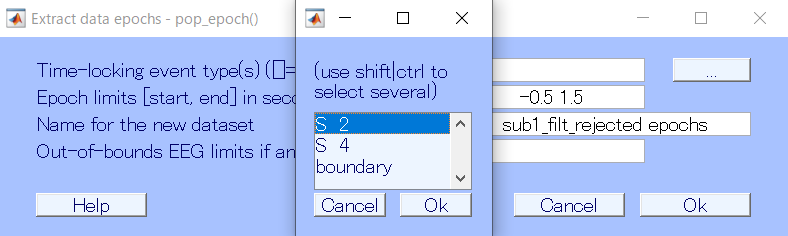
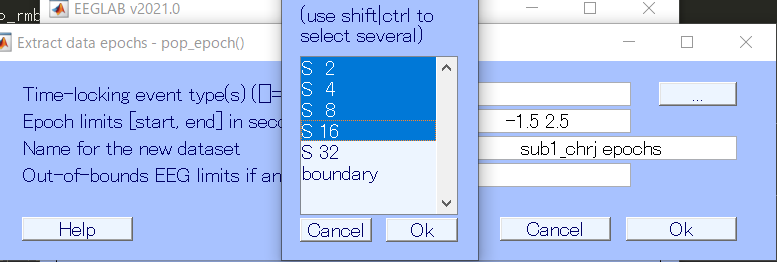
writting preprocessing

diff --git a/Analysis/eeglab/prepro1.html b/Analysis/eeglab/prepro1.html
@@ -364,9 +364,14 @@ h4:before {
 <ul>
 <li><a href="#%E3%82%A8%E3%83%9D%E3%83%83%E3%82%AD%E3%83%B3%E3%82%B0%E3%81%A8%E3%81%AF">&#x30A8;&#x30DD;&#x30C3;&#x30AD;&#x30F3;&#x30B0;&#x3068;&#x306F;</a></li>
 <li><a href="#%E3%82%A8%E3%83%9D%E3%83%83%E3%82%AF%E3%81%AE%E5%88%87%E3%82%8A%E5%87%BA%E3%81%97">&#x30A8;&#x30DD;&#x30C3;&#x30AF;&#x306E;&#x5207;&#x308A;&#x51FA;&#x3057;</a></li>
+<li><a href="#%E3%83%99%E3%83%BC%E3%82%B9%E3%83%A9%E3%82%A4%E3%83%B3%E8%A3%9C%E6%AD%A3">&#x30D9;&#x30FC;&#x30B9;&#x30E9;&#x30A4;&#x30F3;&#x88DC;&#x6B63;</a></li>
 </ul>
 </li>
-<li><a href="#%E3%82%A8%E3%83%9D%E3%83%83%E3%82%AF%E3%81%AE%E9%99%A4%E5%A4%96">&#x30A8;&#x30DD;&#x30C3;&#x30AF;&#x306E;&#x9664;&#x5916;</a></li>
+<li><a href="#%E3%82%A8%E3%83%9D%E3%83%83%E3%82%AF%E3%81%AE%E9%99%A4%E5%A4%96">&#x30A8;&#x30DD;&#x30C3;&#x30AF;&#x306E;&#x9664;&#x5916;</a>
+<ul>
+<li><a href="#%E8%87%AA%E5%8B%95%E3%81%A7%E9%99%A4%E5%A4%96">&#x81EA;&#x52D5;&#x3067;&#x9664;&#x5916;</a></li>
+</ul>
+</li>
 <li><a href="#ica">ICA</a></li>
 <li><a href="#csd-%E3%83%80%E3%82%A4%E3%83%9D%E3%83%BC%E3%83%AB%E3%81%AE%E6%8E%A8%E5%AE%9A">CSD, &#x30C0;&#x30A4;&#x30DD;&#x30FC;&#x30EB;&#x306E;&#x63A8;&#x5B9A;</a></li>
 </ul>
@@ -450,28 +455,69 @@ h4:before {
 </blockquote>
 <p>&#x3092;&#x9078;&#x629E;&#x3057;&#x307E;&#x3059;&#xFF0E;</p>
 <center><img src="../figures/ch-reject.png" width="80%"></center>
-<p><code>Reject channel</code>&#x306E;&#x30A6;&#x30A3;&#x30F3;&#x30C9;&#x30A6;&#x304C;&#x8868;&#x793A;&#x3055;&#x308C;&#x305F;&#x3089;&#xFF0C;&#x5BFE;&#x8C61;&#x3068;&#x3059;&#x308B;&#x96FB;&#x6975;&#x3068;&#x9664;&#x5916;&#x3059;&#x308B;&#x57FA;&#x6E96;&#x3092;&#x9078;&#x629E;&#x3057;&#x307E;&#x3059;&#xFF0E;&#x773C;&#x96FB;&#x3084;&#x7B4B;&#x96FB;&#x306F;&#x8133;&#x6CE2;&#x306B;&#x6BD4;&#x3079;&#x305F;&#x3089;&#x7570;&#x8CEA;&#x306A;&#x4FE1;&#x53F7;&#x3067;&#x3042;&#x308B;&#x3053;&#x3068;&#x306F;&#x9593;&#x9055;&#x3044;&#x306A;&#x3044;&#x306E;&#x3067;&#x5BFE;&#x8C61;&#x304B;&#x3089;&#x5916;&#x3057;&#x305F;&#x4E0A;&#x3067;&#x95A2;&#x6570;&#x306B;&#x304B;&#x3051;&#x307E;&#x3059;&#xFF0E;&#x305D;&#x306E;&#x305F;&#x3081;&#xFF0C;&#x305F;&#x3068;&#x3048;&#x3070;&#x4ECA;&#x56DE;&#x7B46;&#x8005;&#x304C;&#x7528;&#x3044;&#x305F;&#x30C7;&#x30FC;&#x30BF;&#x3060;&#x3068;65ch&#x4E2D;&#x6700;&#x5F8C;&#x306E;2ch&#x306F;&#x773C;&#x96FB;&#x3060;&#x3063;&#x305F;&#x306E;&#x3067;&#x524A;&#x3063;&#x3066;&#xFF0C;<code>1:63</code>&#xFF0C;&#x3064;&#x307E;&#x308A;1&#x304B;&#x3089;63&#x306E;&#x96FB;&#x6975;&#x306E;&#x307F;&#x3092;&#x5BFE;&#x8C61;&#x306B;&#x3057;&#x307E;&#x3057;&#x305F;&#xFF0E;</p>
+<p><code>Reject channel</code>&#x306E;&#x30A6;&#x30A3;&#x30F3;&#x30C9;&#x30A6;&#x304C;&#x8868;&#x793A;&#x3055;&#x308C;&#x305F;&#x3089;&#xFF0C;&#x5BFE;&#x8C61;&#x3068;&#x3059;&#x308B;&#x96FB;&#x6975;&#x3068;&#x9664;&#x5916;&#x3059;&#x308B;&#x57FA;&#x6E96;&#x3092;&#x9078;&#x629E;&#x3057;&#x307E;&#x3059;&#xFF0E;&#x773C;&#x96FB;&#x3084;&#x7B4B;&#x96FB;&#x306F;&#x8133;&#x6CE2;&#x306B;&#x6BD4;&#x3079;&#x305F;&#x3089;&#x7570;&#x8CEA;&#x306A;&#x4FE1;&#x53F7;&#x3067;&#x3042;&#x308B;&#x3053;&#x3068;&#x306F;&#x9593;&#x9055;&#x3044;&#x306A;&#x3044;&#x306E;&#x3067;&#x5BFE;&#x8C61;&#x304B;&#x3089;&#x5916;&#x3057;&#x305F;&#x4E0A;&#x3067;&#x95A2;&#x6570;&#x306B;&#x304B;&#x3051;&#x307E;&#x3059;&#xFF0E;&#x305D;&#x306E;&#x305F;&#x3081;&#xFF0C;&#x305F;&#x3068;&#x3048;&#x3070;&#x4ECA;&#x56DE;&#x7B46;&#x8005;&#x304C;&#x7528;&#x3044;&#x305F;&#x30C7;&#x30FC;&#x30BF;&#x3060;&#x3068;66ch&#x4E2D;&#x6700;&#x5F8C;&#x306E;2ch&#x306F;&#x773C;&#x96FB;&#x3060;&#x3063;&#x305F;&#x308A;&#x3068;&#x8133;&#x6CE2;&#x3067;&#x306F;&#x306A;&#x3044;&#x306E;&#x3067;&#x524A;&#x3063;&#x3066;&#xFF0C;<code>1:63</code>&#xFF0C;&#x3064;&#x307E;&#x308A;1&#x304B;&#x3089;63&#x306E;&#x96FB;&#x6975;&#x306E;&#x307F;&#x3092;&#x5BFE;&#x8C61;&#x306B;&#x3057;&#x307E;&#x3057;&#x305F;&#xFF0E;</p>
 <p>&#x6B21;&#x306E;&#x9664;&#x5916;&#x57FA;&#x6E96;&#x3067;&#x3059;&#x304C;&#xFF0C;&#x3053;&#x308C;&#x306F;&#x8AAC;&#x660E;&#x306B;&#x3084;&#x3084;&#x7D71;&#x8A08;?&#x306E;&#x77E5;&#x8B58;&#x304C;&#x5FC5;&#x8981;&#x306B;&#x306A;&#x308B;&#x306E;&#x3067;&#x7701;&#x304D;&#x307E;&#x3059;&#xFF0E;&#x3068;&#x308A;&#x3042;&#x3048;&#x305A;Kurtosis&#x3067;&#x826F;&#x3044;&#x3068;&#x601D;&#x3044;&#x307E;&#x3059;&#xFF0E;&#x305D;&#x306E;&#x4E0B;&#x306E;&#x6570;&#x5B57;&#x3082;&#x3044;&#x3058;&#x3089;&#x306A;&#x304F;&#x3066;&#x3044;&#x3044;&#xFF0E;&#x7D50;&#x679C;&#xFF0C;&#x96FB;&#x6975;&#x306E;&#x6570;&#x5B57;&#x3060;&#x3051;&#x8ABF;&#x6574;&#x3059;&#x308C;&#x3070;&#x5927;&#x4E08;&#x592B;&#x3067;&#x3059;&#xFF0E;<code>Ok</code>&#x3092;&#x62BC;&#x3057;&#x3066;&#x95A2;&#x6570;&#x3092;&#x8D70;&#x3089;&#x305B;&#x307E;&#x3059;&#xFF0E;</p>
 <center><img src="../figures/ch-reject2.png" width="80%"></center>
 <p>&#x3059;&#x308B;&#x3068;&#x6570;&#x79D2;&#x8A08;&#x7B97;&#x304C;&#x8D70;&#x3063;&#x3066;&#xFF0C;&#x305D;&#x306E;&#x3042;&#x3068;<code>Scroll componet activities</code>&#x306E;&#x30A6;&#x30A3;&#x30F3;&#x30C9;&#x30A6;&#x304C;&#x958B;&#x304D;&#xFF0C;&#x30CE;&#x30A4;&#x30BA;&#x3063;&#x307D;&#x3044;&#x3084;&#x3070;&#x3044;&#x30C1;&#x30E3;&#x30F3;&#x30CD;&#x30EB;&#x3092;&#x8D64;&#x304F;&#x8868;&#x793A;&#x3057;&#x3066;&#x304F;&#x308C;&#x305F;&#x8133;&#x6CE2;&#x30C7;&#x30FC;&#x30BF;&#x306E;&#x4E00;&#x89A7;&#x304C;...</p>
-<center><img src="../figures/ch-reject3.png" width="80%"></center>
-<p>&#x4F55;&#x6545;&#x304B;&#x4E0A;&#x624B;&#x304F;&#x8868;&#x793A;&#x3055;&#x308C;&#x3066;&#x306D;&#x3048;...&#x306A;&#x3093;&#x3060;&#x308D;&#x3046;&#xFF0E;&#x307E;&#x3042;&#x3044;&#x3044;&#x3084;&#xFF0E;<br>
-&#x3061;&#x3083;&#x3093;&#x3068;&#x898B;&#x308C;&#x3066;&#x3044;&#x305F;&#x3089;&#xFF0C;&#x8D64;&#x304F;&#x306A;&#x3063;&#x3066;&#x308B;&#x306E;&#x304C;&#x305F;&#x3057;&#x304B;&#x306B;&#x3084;&#x3070;&#x305D;&#x3046;&#x306A;&#x96FB;&#x6975;&#x304B;&#x3069;&#x3046;&#x304B;&#x78BA;&#x8A8D;&#x3057;&#x3066;&#x307F;&#x3066;&#x304F;&#x3060;&#x3055;&#x3044;&#xFF0E;&#x7D0D;&#x5F97;&#x3057;&#x305F;&#x3089;&#x53F3;&#x4E0B;&#x306E;<code>REJECT</code>&#x3092;&#x62BC;&#x3057;&#x3066;&#xFF0C;&#x9078;&#x629E;&#x3055;&#x308C;&#x305F;&#x96FB;&#x6975;&#x3092;&#x6392;&#x9664;&#x3057;&#x307E;&#x3059;&#xFF0E;</p>
-<center><img src="../figures/ch-reject4.png" width="80%"></center>
-<p>ch&#x3092;&#x524A;&#x3063;&#x305F;&#x306E;&#x3067;&#x5C11;&#x3057;&#x540D;&#x524D;&#x3092;&#x5909;&#x3048;&#x3066;&#x30C7;&#x30FC;&#x30BF;&#x30BB;&#x30C3;&#x30C8;&#x3092;&#x4FDD;&#x5B58;&#x3057;&#x3066;&#x307F;&#x307E;&#x3057;&#x305F;&#xFF0E;&#x3053;&#x3053;&#x3067;&#x78BA;&#x8A8D;&#x3057;&#x3066;&#x307F;&#x308B;&#x3068;&#xFF0C;<code>Channels per frame</code>&#x304C;&#x4ECA;&#x307E;&#x3067;65&#x3060;&#x3063;&#x305F;&#x306E;&#x306B;64&#x306B;&#x306A;&#x308A;&#x307E;&#x3057;&#x305F;&#x306D;&#xFF0E;&#x3084;&#x3070;&#x3044;&#x96FB;&#x6975;&#x3092;&#x53D6;&#x308A;&#x9664;&#x3044;&#x305F;&#x304B;&#x3089;&#x3067;&#x3059;&#xFF0E;&#x3061;&#x306A;&#x307F;&#x306B;&#xFF0C;&#x3069;&#x306E;&#x96FB;&#x6975;&#x304C;&#x3069;&#x3093;&#x306A;&#x5224;&#x5B9A;&#x3092;&#x3055;&#x308C;&#x3066;&#x3044;&#x305F;&#x306E;&#x304B;&#x306F;&#x30B3;&#x30DE;&#x30F3;&#x30C9;&#x30A6;&#x30A3;&#x30F3;&#x30C9;&#x30A6;&#x306B;&#x8868;&#x793A;&#x3055;&#x308C;&#x3066;&#x3044;&#x308B;&#x306F;&#x305A;&#x3067;&#x3059;&#xFF0E;</p>
+<center><img src="../figures/ch-reject3_b.png" width="80%"></center>
+<p>&#x8868;&#x793A;&#x3055;&#x308C;&#x307E;&#x3059;&#xFF0E;&#x8D64;&#x304F;&#x306A;&#x3063;&#x3066;&#x308B;&#x306E;&#x304C;&#x305F;&#x3057;&#x304B;&#x306B;&#x3084;&#x3070;&#x305D;&#x3046;&#x306A;&#x96FB;&#x6975;&#x304B;&#x3069;&#x3046;&#x304B;&#x78BA;&#x8A8D;&#x3057;&#x3066;&#x307F;&#x3066;&#x304F;&#x3060;&#x3055;&#x3044;&#xFF0E;&#x7D0D;&#x5F97;&#x3057;&#x305F;&#x3089;&#x53F3;&#x4E0B;&#x306E;<code>REJECT</code>&#x3092;&#x62BC;&#x3057;&#x3066;&#xFF0C;&#x9078;&#x629E;&#x3055;&#x308C;&#x305F;&#x96FB;&#x6975;&#x3092;&#x6392;&#x9664;&#x3057;&#x307E;&#x3059;&#xFF0E;</p>
+<center><img src="../figures/ch-reject4_b.png" width="80%"></center>
+<p>ch&#x3092;&#x524A;&#x3063;&#x305F;&#x306E;&#x3067;&#x5C11;&#x3057;&#x540D;&#x524D;&#x3092;&#x5909;&#x3048;&#x3066;&#x30C7;&#x30FC;&#x30BF;&#x30BB;&#x30C3;&#x30C8;&#x3092;&#x4FDD;&#x5B58;&#x3057;&#x3066;&#x307F;&#x307E;&#x3057;&#x305F;&#xFF0E;&#x3053;&#x3053;&#x3067;&#x78BA;&#x8A8D;&#x3057;&#x3066;&#x307F;&#x308B;&#x3068;&#xFF0C;<code>Channels per frame</code>&#x304C;&#x4ECA;&#x307E;&#x3067;66&#x3060;&#x3063;&#x305F;&#x306E;&#x306B;65&#x306B;&#x306A;&#x308A;&#x307E;&#x3057;&#x305F;&#x306D;&#xFF0E;&#x3084;&#x3070;&#x3044;&#x96FB;&#x6975;&#x3092;&#x53D6;&#x308A;&#x9664;&#x3044;&#x305F;&#x304B;&#x3089;&#x3067;&#x3059;&#xFF0E;&#x3061;&#x306A;&#x307F;&#x306B;&#xFF0C;&#x3069;&#x306E;&#x96FB;&#x6975;&#x304C;&#x3069;&#x3093;&#x306A;&#x5224;&#x5B9A;&#x3092;&#x3055;&#x308C;&#x3066;&#x3044;&#x305F;&#x306E;&#x304B;&#x306F;&#x30B3;&#x30DE;&#x30F3;&#x30C9;&#x30A6;&#x30A3;&#x30F3;&#x30C9;&#x30A6;&#x306B;&#x8868;&#x793A;&#x3055;&#x308C;&#x3066;&#x3044;&#x308B;&#x306F;&#x305A;&#x3067;&#x3059;&#xFF0E;</p>
 <center><img src="../figures/ch-reject5.png" width="50%"></center>
-<p>&#x4ECA;&#x56DE;&#x4F7F;&#x3063;&#x305F;&#x30C7;&#x30FC;&#x30BF;&#x306F;Fp2&#x304C;&#x6012;&#x3089;&#x308C;&#x305F;&#x3088;&#x3046;&#x3067;&#x3059;&#x306D;&#xFF0E;</p>
+<p>&#x4ECA;&#x56DE;&#x4F7F;&#x3063;&#x305F;&#x30C7;&#x30FC;&#x30BF;&#x306F;P6&#x304C;&#x6012;&#x3089;&#x308C;&#x305F;&#x3088;&#x3046;&#x3067;&#x3059;&#x306D;&#xFF0E;</p>
 <h2 class="mume-header" id="%E3%82%A8%E3%83%9D%E3%83%83%E3%82%AD%E3%83%B3%E3%82%B0">&#x30A8;&#x30DD;&#x30C3;&#x30AD;&#x30F3;&#x30B0;</h2>
 
 <p>&#x4EE5;&#x4E0A;&#x3067;&#xFF0C;&#x307E;&#x305A;&#x6700;&#x521D;&#x306B;&#x3084;&#x3063;&#x3066;&#x304A;&#x304F;&#x3079;&#x304D;&#x4E0B;&#x51E6;&#x7406;&#x306F;&#x7D42;&#x4E86;&#x3067;&#x3059;&#xFF0E;&#x3053;&#x3053;&#x304B;&#x3089;&#xFF0C;&#x5C11;&#x3057;&#x305A;&#x3064;&#x30C7;&#x30FC;&#x30BF;&#x306B;&#x5408;&#x308F;&#x305B;&#x305F;&#x51E6;&#x7406;&#x3092;&#x3057;&#x3066;&#x3044;&#x304D;&#x307E;&#x3059;&#xFF0E;</p>
 <h3 class="mume-header" id="%E3%82%A8%E3%83%9D%E3%83%83%E3%82%AD%E3%83%B3%E3%82%B0%E3%81%A8%E3%81%AF">&#x30A8;&#x30DD;&#x30C3;&#x30AD;&#x30F3;&#x30B0;&#x3068;&#x306F;</h3>
 
+<p>&#x5B89;&#x9759;&#x6642;&#x8133;&#x6CE2;&#x306E;&#x8A08;&#x6E2C;&#x5B9F;&#x9A13;&#x3067;&#x3082;&#x306A;&#x3044;&#x9650;&#x308A;&#xFF0C;&#x57FA;&#x672C;&#x7684;&#x306B;&#x306F;&#x8133;&#x6CE2;&#x7814;&#x7A76;&#x3067;&#x884C;&#x3046;&#x5B9F;&#x9A13;&#x306F;&#x306A;&#x3093;&#x3089;&#x304B;&#x306E;&#x30BF;&#x30B9;&#x30AF;&#x3092;&#x6570;&#x5341;&#x304B;&#x3089;&#x6570;&#x767E;&#x8A66;&#x884C;&#x88AB;&#x9A13;&#x8005;&#x306B;&#x884C;&#x3063;&#x3066;&#x3082;&#x3089;&#x3046;&#x3082;&#x306E;&#x306B;&#x306A;&#x3063;&#x3066;&#x3044;&#x308B;&#x3068;&#x601D;&#x3044;&#x307E;&#x3059;&#xFF0E;&#x3053;&#x308C;&#x3089;&#x5168;&#x4F53;&#x306B;&#x5171;&#x901A;&#x3059;&#x308B;&#x8133;&#x6D3B;&#x52D5;&#x3092;&#x306A;&#x3093;&#x3089;&#x304B;&#x306E;&#x65B9;&#x6CD5;&#x3067;&#x62BD;&#x51FA;&#x3057;&#x3066;&#x8B70;&#x8AD6;&#x3059;&#x308B;&#x306E;&#x304C;&#x8133;&#x6CE2;&#x89E3;&#x6790;&#x306E;&#x4E3B;&#x306A;&#x76EE;&#x7684;&#x3067;&#x3059;&#xFF0E;</p>
+<p>&#x8133;&#x6CE2;&#x30C7;&#x30FC;&#x30BF;&#x306F;&#x5B9F;&#x9A13;&#x4E2D;&#x5E38;&#x306B;&#x8A08;&#x6E2C;&#x3057;&#x3066;&#x3044;&#x308B;&#x305F;&#x3081;&#xFF0C;&#x4F11;&#x61A9;&#x6642;&#x9593;&#x3084;&#x30BF;&#x30B9;&#x30AF;&#x9593;&#x306E;&#x6642;&#x9593;&#x3068;&#x3044;&#x3063;&#x305F;&#xFF0C;&#x89E3;&#x6790;&#x306B;&#x306F;&#x5229;&#x7528;&#x3057;&#x306A;&#x3044;&#x30C7;&#x30FC;&#x30BF;&#x3082;&#x591A;&#x304F;&#x542B;&#x307E;&#x308C;&#x3066;&#x3044;&#x307E;&#x3059;&#xFF0E;&#x306A;&#x306E;&#x3067;&#x8AB2;&#x984C;&#x306B;&#x95A2;&#x4FC2;&#x306E;&#x3042;&#x308B;&#x90E8;&#x5206;&#x3060;&#x3051;&#x3092;&#x5207;&#x308A;&#x51FA;&#x3059;&#x5FC5;&#x8981;&#x304C;&#x3042;&#x308A;&#xFF0C;&#x3053;&#x306E;&#x5207;&#x308A;&#x51FA;&#x3057;&#x305F;&#x30BB;&#x30B0;&#x30E1;&#x30F3;&#x30C8;&#x3092;&#x30A8;&#x30DD;&#x30C3;&#x30AF;&#x3068;&#x8A00;&#x3044;&#x307E;&#x3059;&#xFF0E;</p>
 <h3 class="mume-header" id="%E3%82%A8%E3%83%9D%E3%83%83%E3%82%AF%E3%81%AE%E5%88%87%E3%82%8A%E5%87%BA%E3%81%97">&#x30A8;&#x30DD;&#x30C3;&#x30AF;&#x306E;&#x5207;&#x308A;&#x51FA;&#x3057;</h3>
 
+<p>&#x3067;&#x306F;&#x5B9F;&#x969B;&#x306B;&#x30A8;&#x30DD;&#x30C3;&#x30AF;&#x306E;&#x5207;&#x308A;&#x51FA;&#x3057;&#x3092;&#x3057;&#x3066;&#x307F;&#x307E;&#x3059;&#xFF0E;</p>
+<blockquote>
+<p>Tools -&gt; Extract epochs</p>
+</blockquote>
+<p>&#x3092;&#x30AF;&#x30EA;&#x30C3;&#x30AF;&#x3057;&#x307E;&#x3059;&#xFF0E;</p>
+<center><img src="../figures/epoch0.png" width="80%"></center>
+<p><code>Extract data epochs</code>&#x306E;&#x30A6;&#x30A3;&#x30F3;&#x30C9;&#x30A6;&#x304C;&#x8868;&#x793A;&#x3055;&#x308C;&#x305F;&#x3089;&#xFF0C;&#x30A8;&#x30DD;&#x30C3;&#x30AF;&#x306E;&#x5207;&#x308A;&#x51FA;&#x3057;&#x306B;&#x4F7F;&#x3046;event=&#x30C8;&#x30EA;&#x30AC;&#x30FC;&#x306E;&#x9078;&#x629E;&#x3068;&#xFF0C;event&#x306E;&#x30BF;&#x30A4;&#x30DF;&#x30F3;&#x30B0;&#x524D;&#x5F8C;&#x305D;&#x308C;&#x305E;&#x308C;&#x4F55;&#x79D2;&#x306E;&#x7BC4;&#x56F2;&#x3067;&#x5404;&#x30A8;&#x30DD;&#x30C3;&#x30AF;&#x3092;&#x5207;&#x308A;&#x51FA;&#x3059;&#x306E;&#x304B;&#x3092;&#x6307;&#x5B9A;&#x3057;&#x307E;&#x3059;&#xFF0E;</p>
+<p>&#x30C8;&#x30EA;&#x30AC;&#x30FC;&#x306E;&#x9078;&#x629E;&#x306F;&#x53F3;&#x4E0A;&#x306E;<code>...</code>&#x304B;&#x3089;&#x884C;&#x3044;&#x307E;&#x3059;&#xFF0E;S2&#x3084;S4&#x3068;&#x3044;&#x3046;&#x306E;&#x306F;&#x5B9F;&#x9A13;&#x6642;&#x306B;&#x51FA;&#x529B;&#x3057;&#x3066;&#x3044;&#x305F;&#x30C8;&#x30EA;&#x30AC;&#x30FC;&#x306B;&#x3088;&#x308B;&#x306E;&#x3067;&#xFF0C;&#x3053;&#x308C;&#x306F;&#x5B9F;&#x9A13;&#x6B21;&#x7B2C;&#x3067;&#x500B;&#x6570;&#x3082;&#x8868;&#x8A18;&#x3082;&#x7570;&#x306A;&#x308A;&#x307E;&#x3059;&#xFF0E;&#x8907;&#x6570;&#x9078;&#x629E;&#x3082;&#x53EF;&#x80FD;&#x3067;&#x3059;&#xFF0E;&#x9078;&#x629E;&#x3057;&#x305F;&#x3089;Ok&#x3092;&#x62BC;&#x3057;&#x307E;&#x3057;&#x3087;&#x3046;&#xFF0E;</p>
+<p>&#x6B21;&#x306B;&#x6642;&#x9593;&#x306E;&#x6307;&#x5B9A;&#x3067;&#x3059;&#x304C;&#xFF0C;&#x30C8;&#x30EA;&#x30AC;&#x30FC;&#x524D;&#x306F;&#x3042;&#x308B;&#x7A0B;&#x5EA6;&#x306E;&#x6642;&#x9593;&#x3092;&#x78BA;&#x4FDD;&#x3057;&#x3066;&#x304A;&#x3044;&#x305F;&#x307B;&#x3046;&#x304C;&#x826F;&#x3044;&#x3067;&#x3059;&#xFF0E;&#x7406;&#x7531;&#x306F;&#x3042;&#x3068;&#x3067;&#x8AAC;&#x660E;&#x3057;&#x307E;&#x3059;&#x304C;&#xFF0C;&#x3060;&#x3044;&#x305F;&#x3044;&#x77ED;&#x304F;&#x3066;0.5&#xFF0C;&#x9577;&#x304F;&#x3066;2&#x79D2;&#x3082;&#x3042;&#x308C;&#x3070;&#x826F;&#x3044;&#x304B;&#x3068;&#x601D;&#x3044;&#x307E;&#x3059;&#xFF0E;&#x523A;&#x6FC0;&#x5F8C;&#x306B;&#x3069;&#x308C;&#x3060;&#x3051;&#x306E;&#x6642;&#x9593;&#x3092;&#x5207;&#x308A;&#x51FA;&#x3059;&#x304B;&#x306F;&#x5B9F;&#x9A13;&#x6B21;&#x7B2C;&#x3067;&#x3059;&#xFF0E;&#x89E3;&#x6790;&#x3057;&#x305F;&#x3044;&#x5BFE;&#x8C61;&#x306E;&#x8133;&#x6D3B;&#x52D5;&#x304C;&#x3069;&#x306E;&#x6642;&#x9593;&#x5E45;&#x3067;&#x767A;&#x751F;&#x3057;&#x3066;&#x3044;&#x308B;&#x306E;&#x304B;&#x3092;&#x8003;&#x3048;&#x307E;&#x3057;&#x3087;&#x3046;&#xFF0E;</p>
+<p>&#x305F;&#x3060;&#x3057;&#xFF0C;&#x89E3;&#x6790;&#x306E;&#x90FD;&#x5408;&#x4E0A;&#x5B9F;&#x969B;&#x306E;&#x8A66;&#x884C;&#x6642;&#x9593;&#x3088;&#x308A;&#x3082;&#x5C11;&#x3057;&#x591A;&#x3081;&#x306B;&#x6642;&#x9593;&#x7A93;&#x3092;&#x533A;&#x5207;&#x308B;&#x3053;&#x3068;&#x3092;&#x63A8;&#x5968;&#x3057;&#x307E;&#x3059;&#xFF0E;&#x305F;&#x3068;&#x3048;&#x3070;&#x523A;&#x6FC0;&#x306E;&#x5448;&#x793A;&#x304C;1.5&#x79D2;&#x3067;&#xFF0C;&#x89E3;&#x6790;&#x306B;&#x4F7F;&#x3044;&#x305F;&#x3044;&#x30E1;&#x30A4;&#x30F3;&#x3082;1.5&#x79D2;&#x3060;&#x3063;&#x305F;&#x3068;&#x3057;&#x3066;&#x3082;&#xFF0C;&#x3042;&#x3048;&#x3066;2&#x79D2;&#x307E;&#x3067;&#x5207;&#x308A;&#x53D6;&#x308B;&#x3068;&#x3044;&#x3046;&#x3088;&#x3046;&#x306A;&#x3053;&#x3068;&#x3067;&#x3059;&#xFF0E;&#x7406;&#x7531;&#x306F;&#x89E3;&#x6790;&#x306E;&#x6642;&#x306B;&#xFF0E;</p>
 <center><img src="../figures/epoch1.png" width="80%"></center>
-<center class="mume-header" id="%E3%82%A8%E3%83%9D%E3%83%83%E3%82%AF%E3%81%AE%E9%99%A4%E5%A4%96"><img src="../figures/epoch2.png" width="80%"></center>
-##  &#x30A8;&#x30DD;&#x30C3;&#x30AF;&#x306E;&#x9664;&#x5916;
+<p>&#x30A8;&#x30DD;&#x30C3;&#x30AF;&#x3092;&#x5207;&#x308A;&#x51FA;&#x3059;&#x6642;&#x306B;&#x9078;&#x629E;&#x3059;&#x308B;&#x30C8;&#x30EA;&#x30AC;&#x30FC;&#x3067;&#x3059;&#x304C;&#xFF0C;&#x6700;&#x521D;&#x306F;&#x89E3;&#x6790;&#x3057;&#x305F;&#x3044;&#x5BFE;&#x8C61;&#x306E;&#x5168;&#x3066;&#x3092;&#x9078;&#x3093;&#x3067;&#x304A;&#x304D;&#x307E;&#x3057;&#x3087;&#x3046;&#xFF0E;&#x3053;&#x306E;&#x5148;&#x3082;&#x4E0B;&#x51E6;&#x7406;&#x3092;&#x884C;&#x3046;&#x306E;&#x3067;&#xFF0C;&#x3053;&#x306E;&#x6BB5;&#x968E;&#x3067;&#x6761;&#x4EF6;&#x6BCE;&#x306B;&#x5206;&#x3051;&#x3066;&#x53D6;&#x308A;&#x51FA;&#x3057;&#x3066;&#x3044;&#x308B;&#x3068;&#xFF0C;&#x305D;&#x308C;&#x305E;&#x308C;&#x540C;&#x3058;&#x51E6;&#x7406;&#x3092;&#x7E70;&#x308A;&#x8FD4;&#x3059;&#x5FC5;&#x8981;&#x304C;&#x3042;&#x308A;&#x9762;&#x5012;&#x3067;&#x3059;&#xFF0E;&#x81EA;&#x5206;&#x306F;4&#x6761;&#x4EF6;&#x306E;&#x5B9F;&#x9A13;&#x3060;&#x3063;&#x305F;&#x306E;&#x3067;4&#x6761;&#x4EF6;&#x5168;&#x3066;&#x3092;&#x53D6;&#x308A;&#x51FA;&#x3057;&#x307E;&#x3057;&#x305F;&#xFF0E;</p>
+<h3 class="mume-header" id="%E3%83%99%E3%83%BC%E3%82%B9%E3%83%A9%E3%82%A4%E3%83%B3%E8%A3%9C%E6%AD%A3">&#x30D9;&#x30FC;&#x30B9;&#x30E9;&#x30A4;&#x30F3;&#x88DC;&#x6B63;</h3>
 
+<center><img src="../figures/rm-baseline.png" width="80%"></center>
+<p>&#x3055;&#x3066;&#xFF0C;&#x5207;&#x308A;&#x51FA;&#x3059;&#x30A8;&#x30DD;&#x30C3;&#x30AF;&#x3092;&#x9078;&#x3093;&#x3067;OK&#x3092;&#x62BC;&#x3059;&#x3068;&#xFF0C;<code>Baseline removal</code>&#x3068;&#x3044;&#x3046;&#x30A6;&#x30A3;&#x30F3;&#x30C9;&#x30A6;&#x304C;&#x8868;&#x793A;&#x3055;&#x308C;&#x308B;&#x3068;&#x601D;&#x3044;&#x307E;&#x3059;&#xFF0E;&#x3053;&#x308C;&#x306F;&#x30A8;&#x30DD;&#x30C3;&#x30AF;&#x3054;&#x3068;&#x306B;&#x30D9;&#x30FC;&#x30B9;&#x30E9;&#x30A4;&#x30F3;&#x3092;&#x8A2D;&#x5B9A;&#x3057;&#xFF0C;&#x8133;&#x6CE2;&#x30C7;&#x30FC;&#x30BF;&#x3092;&#x88DC;&#x6B63;&#x3059;&#x308B;&#x305F;&#x3081;&#x306E;&#x6A5F;&#x80FD;&#x3067;&#x3059;&#xFF0E;</p>
+<p>&#x8133;&#x6CE2;&#x306F;&#x8A08;&#x6E2C;&#x4E2D;&#xFF0C;&#x5E38;&#x306B;&#x982D;&#x76AE;&#x3068;&#x306E;&#x63A5;&#x89E6;&#x90E8;&#x4F4D;&#x3067;&#x82E5;&#x5E72;&#x305A;&#x3064;&#x62B5;&#x6297;&#x304C;&#x5909;&#x5316;&#x3057;&#x305F;&#x308A;&#x3059;&#x308B;&#x3053;&#x3068;&#x3067;&#xFF0C;&#x4F55;&#x3082;&#x3057;&#x3066;&#x3044;&#x306A;&#x304F;&#x3066;&#x3082;&#x5024;&#x304C;&#x3086;&#x308B;&#x3084;&#x304B;&#x306B;&#x5909;&#x5316;&#x3057;&#x307E;&#x3059;&#xFF0E;&#x305D;&#x306E;&#x5909;&#x5316;&#x3068;&#x30BF;&#x30B9;&#x30AF;&#x7531;&#x6765;&#x306E;&#x5909;&#x5316;&#x3092;&#x533A;&#x5225;&#x3059;&#x308B;&#x305F;&#x3081;&#xFF0C;&#x305D;&#x308C;&#x305E;&#x308C;&#x306E;&#x30A8;&#x30DD;&#x30C3;&#x30AF;&#x3067;&#x306F;&#x30BF;&#x30B9;&#x30AF;&#x524D;&#x6570;100ms~&#x6570;1000ms&#x306E;&#x6642;&#x9593;&#x3067;&#x5E73;&#x5747;&#x3092;&#x53D6;&#x308A;&#xFF0C;&#x3053;&#x308C;&#x3092;&#x30D9;&#x30FC;&#x30B9;&#x30E9;&#x30A4;&#x30F3;&#x3068;&#x3057;&#x3066;&#x30A8;&#x30DD;&#x30C3;&#x30AF;&#x5168;&#x4F53;&#x304B;&#x3089;&#x5F15;&#x304D;&#x307E;&#x3059;&#xFF0E;&#x3053;&#x3046;&#x3059;&#x308B;&#x3053;&#x3068;&#x3067;&#xFF0C;&#x30BF;&#x30B9;&#x30AF;&#x524D;&#x306E;&#x8133;&#x6CE2;&#x304B;&#x3089;&#x306E;&#x5909;&#x5316;&#x5206;&#x3060;&#x3051;&#x304C;&#x6B8B;&#x308B;&#x305F;&#x3081;&#xFF0C;&#x30A8;&#x30DD;&#x30C3;&#x30AF;&#x9593;&#x3067;&#x306E;&#x8133;&#x6CE2;&#x3092;&#x6BD4;&#x8F03;&#x3059;&#x308B;&#x3053;&#x3068;&#x304C;&#x51FA;&#x6765;&#x308B;&#x3088;&#x3046;&#x306B;&#x306A;&#x308B;&#x308F;&#x3051;&#x3067;&#x3059;&#xFF0E;</p>
+<p>&#x3068;&#x3044;&#x3046;&#x3053;&#x3068;&#x3067;&#xFF0C;&#x305D;&#x306E;&#x305F;&#x3081;&#x306B;&#x30A8;&#x30DD;&#x30C3;&#x30AF;&#x306E;&#x5207;&#x308A;&#x51FA;&#x3057;&#x306F;&#x30C8;&#x30EA;&#x30AC;&#x30FC;&#x3088;&#x308A;&#x3061;&#x3087;&#x3063;&#x3068;&#x524D;&#x306E;&#x6642;&#x9593;&#x307E;&#x3067;&#x3067;&#x884C;&#x3044;&#x307E;&#x3057;&#x305F;&#xFF0E;&#x81EA;&#x5206;&#x306F;&#x30C8;&#x30EA;&#x30AC;&#x30FC;&#x304C;&#x51FA;&#x3055;&#x308C;&#x308B;&#x76F4;&#x524D;&#x306E;1.5~2&#x79D2;&#x306E;&#x9593;&#x306F;&#x6CE8;&#x8996;&#x70B9;&#x3092;&#x898B;&#x3066;&#x3044;&#x308B;&#x3060;&#x3051;&#x306E;&#x6642;&#x9593;&#x306A;&#x306E;&#x3067;&#xFF0C;&#x3053;&#x306E;1.5&#x79D2;&#x3092;&#x4F7F;&#x3063;&#x3066;&#x30D9;&#x30FC;&#x30B9;&#x30E9;&#x30A4;&#x30F3;&#x3092;&#x8A08;&#x7B97;&#x3055;&#x305B;&#x307E;&#x3057;&#x305F;&#xFF0E;</p>
+<p>&#x5B9F;&#x9A13;&#x30C7;&#x30B6;&#x30A4;&#x30F3;&#x306E;&#x6642;&#x304B;&#x3089;&#xFF0C;&#x3053;&#x3053;&#x3092;&#x4E0A;&#x624B;&#x304F;&#x7D44;&#x307F;&#x8FBC;&#x3093;&#x3067;&#x304A;&#x304D;&#x307E;&#x3057;&#x3087;&#x3046;&#xFF0E;&#x3053;&#x306E;&#x30D9;&#x30FC;&#x30B9;&#x30E9;&#x30A4;&#x30F3;&#x6642;&#x9593;&#x306F;&#x8133;&#x6D3B;&#x52D5;&#x306B;&#x5909;&#x5316;&#x304C;&#x3042;&#x3063;&#x3066;&#x306F;&#x3044;&#x3051;&#x306A;&#x3044;&#x306E;&#x3067;&#xFF0C;&#x305F;&#x3068;&#x3048;&#x3070;&#x6CE8;&#x8996;&#x70B9;&#x306E;&#x753B;&#x9762;&#x306B;&#x5207;&#x308A;&#x66FF;&#x308F;&#x308B;&#x306E;&#x304C;-1500ms&#x306E;&#x30BF;&#x30A4;&#x30DF;&#x30F3;&#x30B0;&#x3060;&#x3063;&#x305F;&#x3068;&#x3057;&#x305F;&#x3089;&#xFF0C;&#x30D9;&#x30FC;&#x30B9;&#x30E9;&#x30A4;&#x30F3;&#x306B;-1500&#x304B;&#x3089;0&#x3092;&#x4F7F;&#x3063;&#x3066;&#x3057;&#x307E;&#x3046;&#x3068;&#x6CE8;&#x8996;&#x70B9;&#x5448;&#x793A;&#x306B;&#x3088;&#x308B;ERP&#x304C;&#x4E57;&#x3063;&#x3066;&#x3057;&#x307E;&#x3044;&#x3088;&#x308D;&#x3057;&#x304F;&#x3042;&#x308A;&#x307E;&#x305B;&#x3093;&#xFF0E;&#x3053;&#x306E;&#x5834;&#x5408;&#x306F;-1000&#x304B;&#x3089;&#x3068;&#x304B;&#x306B;&#x3057;&#x307E;&#x3057;&#x3087;&#x3046;&#xFF0E;</p>
+<p>&#x3055;&#x3066;&#xFF0C;&#x30D9;&#x30FC;&#x30B9;&#x30E9;&#x30A4;&#x30F3;&#x88DC;&#x6B63;&#x3082;&#x7D42;&#x308F;&#x3063;&#x305F;&#x306E;&#x3067;&#xFF2F;&#xFF4B;&#x3092;&#x62BC;&#x3057;&#x307E;&#x3059;&#xFF0E;</p>
+<center><img src="../figures/epoch2.png" width="80%"></center>
+<p>&#x30E1;&#x30CB;&#x30E5;&#x30FC;&#x306B;&#x623B;&#x308B;&#x3068;&#xFF0C;&#x5148;&#x7A0B;&#x307E;&#x3067;&#x3068;&#x8272;&#x3005;&#x5909;&#x308F;&#x3063;&#x3066;&#x3044;&#x307E;&#x3059;&#xFF0E;epoch&#x306E;&#x6570;&#xFF0C;&#x30B9;&#x30BF;&#x30FC;&#x30C8;&#x3068;&#x7D42;&#x308F;&#x308A;&#x306E;&#x6642;&#x9593;&#x306A;&#x3069;&#x306E;&#x60C5;&#x5831;&#x304C;&#x8FFD;&#x52A0;&#x3055;&#x308C;&#x307E;&#x3057;&#x305F;&#xFF0E;&#x3053;&#x3053;&#x3067;&#xFF0C;&#x610F;&#x56F3;&#x3057;&#x305F;&#x30A8;&#x30DD;&#x30C3;&#x30AF;&#x306E;&#x6570;&#x3084;&#x9577;&#x3055;&#x304C;&#x3061;&#x3083;&#x3093;&#x3068;&#x5207;&#x308A;&#x51FA;&#x305B;&#x3066;&#x3044;&#x308B;&#x306E;&#x304B;&#x78BA;&#x8A8D;&#x3092;&#x3057;&#x3066;&#x304A;&#x304D;&#x307E;&#x3057;&#x3087;&#x3046;&#xFF0E;</p>
+<h2 class="mume-header" id="%E3%82%A8%E3%83%9D%E3%83%83%E3%82%AF%E3%81%AE%E9%99%A4%E5%A4%96">&#x30A8;&#x30DD;&#x30C3;&#x30AF;&#x306E;&#x9664;&#x5916;</h2>
+
+<p>&#x30D9;&#x30FC;&#x30B9;&#x30E9;&#x30A4;&#x30F3;&#x3067;&#x88DC;&#x6B63;&#x3057;&#x3066;&#x3044;&#x3088;&#x3046;&#x3068;&#xFF0C;&#x30CE;&#x30A4;&#x30BA;&#x307E;&#x307F;&#x308C;&#x3067;&#x4F7F;&#x3048;&#x306A;&#x3044;&#x8A66;&#x884C;&#x306F;&#x3084;&#x306F;&#x308A;&#x5B58;&#x5728;&#x3057;&#x307E;&#x3059;&#xFF0E;&#x8133;&#x6CE2;&#x306B;&#x6BD4;&#x3079;&#x3066;&#x7B4B;&#x96FB;&#x306F;&#x5727;&#x5012;&#x7684;&#x306B;&#x5927;&#x304D;&#x306A;&#x632F;&#x5E45;&#x3092;&#x3082;&#x3063;&#x305F;&#x4FE1;&#x53F7;&#x3067;&#x3042;&#x308B;&#x3053;&#x3068;&#x3084;&#xFF0C;&#x96FB;&#x6975;&#x304C;&#x52D5;&#x304F;&#x3053;&#x3068;&#x3067;&#x751F;&#x3058;&#x305F;&#x62B5;&#x6297;&#x306E;&#x5909;&#x5316;&#x306B;&#x3088;&#x308B;&#x96FB;&#x5727;(&#x8A08;&#x6E2C;&#x8133;&#x6CE2;)&#x3078;&#x306E;&#x5F71;&#x97FF;&#x306A;&#x3069;&#x306B;&#x3088;&#x3063;&#x3066;&#xFF0C;&#x30BF;&#x30B9;&#x30AF;&#x4E2D;&#x306B;&#x88AB;&#x9A13;&#x8005;&#x304C;&#x307E;&#x3070;&#x305F;&#x304D;&#x3092;&#x3057;&#x305F;&#x308A;&#x4F53;&#x3092;&#x52D5;&#x304B;&#x3057;&#x305F;&#x308A;&#x3057;&#x3066;&#x3057;&#x307E;&#x3063;&#x305F;&#x8A66;&#x884C;&#x306F;&#x6C5A;&#x304F;&#x306A;&#x3063;&#x3066;&#x3057;&#x307E;&#x3044;&#x304C;&#x3061;&#x3067;&#x3059;&#xFF0E;</p>
+<p>&#x3053;&#x3046;&#x3057;&#x305F;&#x8A66;&#x884C;&#x306F;&#xFF0C;&#x89E3;&#x6790;&#x3057;&#x3088;&#x3046;&#x306B;&#x3082;&#x8133;&#x6CE2;&#x304C;&#x30CE;&#x30A4;&#x30BA;&#x306B;&#x57CB;&#x3082;&#x308C;&#x3066;&#x3057;&#x307E;&#x3063;&#x3066;&#x3044;&#x308B;&#x306E;&#x3067;&#x610F;&#x5473;&#x3092;&#x306A;&#x3055;&#x306A;&#x304F;&#xFF0C;&#x3080;&#x3057;&#x308D;&#x8A66;&#x884C;&#x3067;&#x5E73;&#x5747;&#x5316;&#x3057;&#x3066;&#x3057;&#x307E;&#x3046;&#x8133;&#x6CE2;&#x89E3;&#x6790;&#x306B;&#x304A;&#x3044;&#x3066;&#x306F;&#x5BB3;&#x60AA;&#x3067;&#x3057;&#x304B;&#x3042;&#x308A;&#x307E;&#x305B;&#x3093;&#xFF0E;&#x3088;&#x3063;&#x3066;&#x305D;&#x3046;&#x3057;&#x305F;&#x6C5A;&#x3044;&#x30A8;&#x30DD;&#x30C3;&#x30AF;&#x3092;&#x89E3;&#x6790;&#x5BFE;&#x8C61;&#x304B;&#x3089;&#x5916;&#x3057;&#x3066;&#x304A;&#x304F;&#x5FC5;&#x8981;&#x304C;&#x3042;&#x308A;&#x307E;&#x3059;&#xFF0E;</p>
+<h3 class="mume-header" id="%E8%87%AA%E5%8B%95%E3%81%A7%E9%99%A4%E5%A4%96">&#x81EA;&#x52D5;&#x3067;&#x9664;&#x5916;</h3>
+
+<center><img src="../figures/eprj1.png" width="80%"></center>
+<blockquote>
+<p>Tools -&gt; Automatic epoch rejection</p>
+</blockquote>
+<p>&#x3092;&#x9078;&#x629E;&#x3057;&#x307E;&#x3059;&#xFF0E;</p>
+<center><img src="../figures/eprj2.png" width="80%"></center>
+<p>&#x9664;&#x5916;&#x3059;&#x308B;&#x30A8;&#x30DD;&#x30C3;&#x30AF;&#x306E;&#x57FA;&#x6E96;&#x3092;&#x8A2D;&#x5B9A;&#x3057;&#x307E;&#x3059;&#xFF0E;&#x8133;&#x6CE2;&#x306E;&#x30B9;&#x30B1;&#x30FC;&#x30EB;&#x304B;&#x3089;&#x3057;&#x3066;&#xFF0C;1000&#x3BC;V&#x3092;&#x8D85;&#x3048;&#x308B;&#x4FE1;&#x53F7;&#x304C;&#x53D6;&#x308C;&#x308B;&#x306E;&#x306F;&#x304A;&#x304B;&#x3057;&#x3044;&#x306E;&#x3067;&#x3053;&#x308C;&#x3092;&#x57FA;&#x6E96;(&#x30C7;&#x30D5;&#x30A9;&#x30EB;&#x30C8;&#x8A2D;&#x5B9A;)&#x3068;&#x3057;&#x3066;&#xFF0C;&#x305D;&#x308C;&#x3088;&#x308A;&#x3082;&#x3067;&#x304B;&#x3044;&#x4FE1;&#x53F7;&#x304C;&#x8A08;&#x6E2C;&#x3055;&#x308C;&#x3066;&#x3044;&#x308B;&#x30A8;&#x30DD;&#x30C3;&#x30AF;&#x306F;&#x9664;&#x5916;&#x3059;&#x308B;&#x3053;&#x3068;&#x306B;&#x3057;&#x3066;&#x307F;&#x307E;&#x3059;&#xFF0E;</p>
+<center><img src="../figures/eprj3.png" width="80%"></center>
+<p><code>Ok</code>&#x3092;&#x62BC;&#x3057;&#x3066;&#x8A08;&#x7B97;&#x3055;&#x305B;&#x308B;&#x3068;&#xFF0C;&#x5C11;&#x3057;&#x305F;&#x3063;&#x3066;&#x304B;&#x3089;&#x3053;&#x306E;&#x3088;&#x3046;&#x306A;plot&#x304C;&#x8868;&#x793A;&#x3055;&#x308C;&#x308B;&#x306F;&#x305A;&#x3067;&#x3059;&#xFF0E;&#x8A66;&#x884C;&#x533A;&#x5207;&#x308A;&#x306B;&#x306A;&#x3063;&#x305F;&#x8133;&#x6CE2;&#x30C7;&#x30FC;&#x30BF;&#x306B;&#x5BFE;&#x3057;&#x3066;&#xFF0C;EEGLAB&#x304C;reject&#x5224;&#x5B9A;&#x3092;&#x3057;&#x305F;&#x30A8;&#x30DD;&#x30C3;&#x30AF;&#x3092;&#x78BA;&#x8A8D;&#x3067;&#x304D;&#x307E;&#x3059;&#xFF0E;&#x9EC4;&#x8272;&#x306B;&#x306A;&#x3063;&#x3066;&#x3044;&#x308B;&#x306E;&#x304C;&#x9664;&#x5916;&#x5224;&#x5B9A;&#x3067;&#x3059;&#xFF0E;</p>
+<center><img src="../figures/eprj4.png" width="80%"></center>
+<p>&#x9664;&#x5916;&#x5224;&#x5B9A;&#x3060;&#x3051;&#x3069;&#x6B8B;&#x3057;&#x3066;&#x304A;&#x3044;&#x3066;&#x826F;&#x3044;&#x3068;&#x601D;&#x3063;&#x305F;&#x308A;&#xFF0C;&#x9006;&#x306B;&#x6B8B;&#x3055;&#x308C;&#x3066;&#x3044;&#x308B;&#x3051;&#x3069;&#x660E;&#x3089;&#x304B;&#x306B;&#x5909;&#x306A;&#x306E;&#x306A;&#x3093;&#x304B;&#x306F;&#x30A8;&#x30DD;&#x30C3;&#x30AF;&#x3092;&#x30AF;&#x30EA;&#x30C3;&#x30AF;&#x3059;&#x308B;&#x3068;&#x9EC4;&#x8272;&#x304C;&#x3064;&#x3044;&#x305F;&#x308A;&#x5916;&#x308C;&#x305F;&#x308A;&#xFF0C;&#x3064;&#x307E;&#x308A;&#x9664;&#x5916;&#x30DE;&#x30FC;&#x30AF;&#x306E;&#x30AA;&#x30F3;&#x30AA;&#x30D5;&#x3092;&#x5207;&#x308A;&#x66FF;&#x3048;&#x3089;&#x308C;&#x307E;&#x3059;&#xFF0E;</p>
+<p>&#x5168;&#x4F53;&#x3092;&#x78BA;&#x8A8D;&#x3057;&#x3066;&#xFF2F;&#xFF2B;&#x305D;&#x3046;&#x3060;&#x3063;&#x305F;&#x3089;&#xFF0C;&#x53F3;&#x4E0B;&#x306E;<code>REJECT</code>&#x3092;&#x62BC;&#x3057;&#x3066;&#x9EC4;&#x8272;&#x3067;&#x30DE;&#x30FC;&#x30AF;&#x3055;&#x308C;&#x305F;&#x30A8;&#x30DD;&#x30C3;&#x30AF;&#x3092;&#x9664;&#x5916;&#x3057;&#x307E;&#x3057;&#x3087;&#x3046;&#xFF0E;</p>
+<center><img src="../figures/eprj5.png" width="80%"></center>
+<p>&#x306F;&#x3044;&#xFF0E;</p>
+<center><img src="../figures/eprj6.png" width="80%"></center>
+<p>&#x7D50;&#x679C;&#x3067;&#x3059;&#xFF0E;&#x5148;&#x7A0B;&#x307E;&#x3067;&#x306F;80trial&#x3060;&#x3063;&#x305F;&#x30C7;&#x30FC;&#x30BF;&#x304C;66&#x306B;&#x306A;&#x308A;&#x307E;&#x3057;&#x305F;&#xFF0E;&#x30C6;&#x30B9;&#x30C8;&#x7528;&#x306B;&#x81EA;&#x5206;&#x304C;&#x88AB;&#x9A13;&#x8005;&#x306B;&#x306A;&#x3063;&#x3066;&#x53D6;&#x3063;&#x305F;&#x30C7;&#x30FC;&#x30BF;&#x306A;&#x3093;&#x3067;&#x3059;&#x3051;&#x3069;&#xFF0C;&#x9014;&#x4E2D;&#x304B;&#x3089;&#x6C17;&#x6301;&#x3061;&#x60AA;&#x304F;&#x306A;&#x3063;&#x3066;&#x3057;&#x307E;&#x3063;&#x3066;&#x52D5;&#x304D;&#x307E;&#x304F;&#x3063;&#x3066;&#x3044;&#x305F;&#x3093;&#x3067;&#x3059;&#x3088;&#x306D;...&#x591A;&#x52D5;&#x6C17;&#x5473;&#x306A;&#x4EBA;&#x306B;&#x306F;&#x8133;&#x8A08;&#x6E2C;&#x5B9F;&#x9A13;&#x306F;&#x8F9B;&#x3044;&#x3067;&#x3059;&#x3088;&#x306D;&#x3048;&#xFF0E;</p>
 <h2 class="mume-header" id="ica">ICA</h2>
 
 <h2 class="mume-header" id="csd-%E3%83%80%E3%82%A4%E3%83%9D%E3%83%BC%E3%83%AB%E3%81%AE%E6%8E%A8%E5%AE%9A">CSD, &#x30C0;&#x30A4;&#x30DD;&#x30FC;&#x30EB;&#x306E;&#x63A8;&#x5B9A;</h2>

diff --git a/Analysis/eeglab/import.html b/Analysis/eeglab/import.html
@@ -327,13 +327,26 @@ h4:before {
 
 <div class="code-chunk" data-id="code-chunk-id-0" data-cmd="toc"><div class="input-div"><div class="btn-group"><div class="run-btn btn"><span>&#x25B6;&#xFE0E;</span></div><div class="run-all-btn btn">all</div></div><div class="status">running...</div></div><div class="output-div"></div></div><ul>
 <li><a href="#%E7%9B%AE%E6%AC%A1">&#x76EE;&#x6B21;</a></li>
-<li><a href="#%E8%84%B3%E6%B3%A2%E3%83%87%E3%83%BC%E3%82%BF%E3%81%AE%E6%8B%A1%E5%BC%B5%E5%AD%90%E3%81%AB%E3%81%A4%E3%81%84%E3%81%A6">&#x8133;&#x6CE2;&#x30C7;&#x30FC;&#x30BF;&#x306E;&#x62E1;&#x5F35;&#x5B50;&#x306B;&#x3064;&#x3044;&#x3066;</a></li>
+<li><a href="#%E8%84%B3%E6%B3%A2%E3%83%87%E3%83%BC%E3%82%BF%E3%81%AE%E6%8B%A1%E5%BC%B5%E5%AD%90%E3%81%AB%E3%81%A4%E3%81%84%E3%81%A6">&#x8133;&#x6CE2;&#x30C7;&#x30FC;&#x30BF;&#x306E;&#x62E1;&#x5F35;&#x5B50;&#x306B;&#x3064;&#x3044;&#x3066;</a>
+<ul>
+<li><a href="#vhdr%E3%83%95%E3%82%A1%E3%82%A4%E3%83%AB">.vhdr&#x30D5;&#x30A1;&#x30A4;&#x30EB;</a></li>
+<li><a href="#vmrk%E3%83%95%E3%82%A1%E3%82%A4%E3%83%AB">.vmrk&#x30D5;&#x30A1;&#x30A4;&#x30EB;</a></li>
+<li><a href="#eeg%E3%83%95%E3%82%A1%E3%82%A4%E3%83%AB">.eeg&#x30D5;&#x30A1;&#x30A4;&#x30EB;</a></li>
+</ul>
+</li>
 <li><a href="#%E3%82%A4%E3%83%B3%E3%83%9D%E3%83%BC%E3%83%88">&#x30A4;&#x30F3;&#x30DD;&#x30FC;&#x30C8;</a></li>
 <li><a href="#%E7%94%BB%E9%9D%A2%E3%81%AE%E8%A6%8B%E6%96%B9">&#x753B;&#x9762;&#x306E;&#x898B;&#x65B9;</a></li>
+<li><a href="#set%E3%83%95%E3%82%A1%E3%82%A4%E3%83%AB%E3%81%AE%E8%AA%AD%E3%81%BF%E8%BE%BC%E3%81%BF">set&#x30D5;&#x30A1;&#x30A4;&#x30EB;&#x306E;&#x8AAD;&#x307F;&#x8FBC;&#x307F;</a></li>
 </ul>
 <h2 class="mume-header" id="%E8%84%B3%E6%B3%A2%E3%83%87%E3%83%BC%E3%82%BF%E3%81%AE%E6%8B%A1%E5%BC%B5%E5%AD%90%E3%81%AB%E3%81%A4%E3%81%84%E3%81%A6">&#x8133;&#x6CE2;&#x30C7;&#x30FC;&#x30BF;&#x306E;&#x62E1;&#x5F35;&#x5B50;&#x306B;&#x3064;&#x3044;&#x3066;</h2>
 
 <p>&#x8133;&#x6CE2;&#x30C7;&#x30FC;&#x30BF;&#x306F;&#xFF0C;&#x8A08;&#x6E2C;&#x3068;&#x8A18;&#x9332;&#x306B;&#x4F7F;&#x7528;&#x3055;&#x308C;&#x305F;&#x30CF;&#x30FC;&#x30C9;&#x304A;&#x3088;&#x3073;&#x30BD;&#x30D5;&#x30C8;&#x30A6;&#x30A7;&#x30A2;&#x306B;&#x3088;&#x3063;&#x3066;&#x7570;&#x306A;&#x308B;&#x30C7;&#x30FC;&#x30BF;&#x5F62;&#x5F0F;&#x3067;&#x683C;&#x7D0D;&#x3055;&#x308C;&#x307E;&#x3059;&#xFF0E;&#x8A73;&#x3057;&#x304F;&#x306F;&#x8ABF;&#x3079;&#x3066;&#x3044;&#x307E;&#x305B;&#x3093;&#x304C;&#xFF0C;<code>edf</code>&#x30D5;&#x30A1;&#x30A4;&#x30EB;&#x3060;&#x3063;&#x305F;&#x308A;<code>eeg</code>&#x30D5;&#x30A1;&#x30A4;&#x30EB;&#x3060;&#x3063;&#x305F;&#x308A;&#x3067;&#x3059;&#xFF0E;&#x305D;&#x308C;&#x305E;&#x308C;import&#x306E;&#x4ED5;&#x65B9;&#x304C;&#x82E5;&#x5E72;&#x9055;&#x3046;&#x306E;&#x3067;&#x6CE8;&#x610F;&#x304C;&#x5FC5;&#x8981;&#x3067;&#xFF0C;&#x5834;&#x5408;&#x306B;&#x3088;&#x3063;&#x3066;&#x306F;&#x305D;&#x306E;&#x305F;&#x3081;&#x306B;&#x5225;&#x9014;plugin&#x3092;&#x5F15;&#x3063;&#x5F35;&#x3063;&#x3066;&#x304F;&#x308B;&#x5FC5;&#x8981;&#x304C;&#x3042;&#x308B;&#x306E;&#x3067;&#x81EA;&#x5206;&#x306E;&#x30C7;&#x30FC;&#x30BF;&#x5F62;&#x5F0F;&#x306B;&#x5408;&#x308F;&#x305B;&#x3066;&#x9069;&#x5B9C;&#x9811;&#x5F35;&#x3063;&#x3066;&#x304F;&#x3060;&#x3055;&#x3044;&#xFF0E;</p>
+<h3 class="mume-header" id="vhdr%E3%83%95%E3%82%A1%E3%82%A4%E3%83%AB">.vhdr&#x30D5;&#x30A1;&#x30A4;&#x30EB;</h3>
+
+<h3 class="mume-header" id="vmrk%E3%83%95%E3%82%A1%E3%82%A4%E3%83%AB">.vmrk&#x30D5;&#x30A1;&#x30A4;&#x30EB;</h3>
+
+<h3 class="mume-header" id="eeg%E3%83%95%E3%82%A1%E3%82%A4%E3%83%AB">.eeg&#x30D5;&#x30A1;&#x30A4;&#x30EB;</h3>
+
 <h2 class="mume-header" id="%E3%82%A4%E3%83%B3%E3%83%9D%E3%83%BC%E3%83%88">&#x30A4;&#x30F3;&#x30DD;&#x30FC;&#x30C8;</h2>
 
 <p>&#x3055;&#x3066;&#xFF0C;&#x30A4;&#x30F3;&#x30DD;&#x30FC;&#x30C8;&#x3068;&#x306F;&#x30C7;&#x30FC;&#x30BF;&#x306E;&#x8AAD;&#x307F;&#x8FBC;&#x307F;&#x306E;&#x3053;&#x3068;&#x3067;&#x3059;&#xFF0E;EEGLAB&#x306B;&#x3053;&#x308C;&#x304B;&#x3089;&#x89E3;&#x6790;&#x3059;&#x308B;&#x8133;&#x6CE2;&#x30C7;&#x30FC;&#x30BF;&#x3092;&#x8AAD;&#x307F;&#x8FBC;&#x307E;&#x305B;&#x308B;&#x4F5C;&#x696D;&#x3067;&#x3059;&#x306D;&#xFF0E;&#x7C21;&#x5358;&#x3067;&#x3059;.<br>
@@ -388,6 +401,10 @@ h4:before {
 </ul>
 <p>&#x305D;&#x306E;&#x307B;&#x304B;&#xFF0C;&#x4E0A;&#x306B;&#x8868;&#x793A;&#x3055;&#x308C;&#x3066;&#x3044;&#x308B;&#x30E1;&#x30CB;&#x30E5;&#x30FC;&#x30D0;&#x30FC;&#x306F;&#x3053;&#x308C;&#x304B;&#x3089;&#x4E0B;&#x51E6;&#x7406;&#x3068;&#x304B;&#x3084;&#x3063;&#x3066;&#x3044;&#x304F;&#x3068;&#x304D;&#x306B;&#x89E6;&#x308B;&#x3053;&#x3068;&#x306B;&#x3057;&#x307E;&#x3057;&#x3087;&#x3046;&#xFF0E;</p>
 <p>&#x6B21;&#x306F;&#x3044;&#x3088;&#x3044;&#x3088;&#x89E3;&#x6790;...&#x306E;&#x524D;&#x306B;&#x9762;&#x5012;&#x3060;&#x3051;&#x3069;&#x5927;&#x4E8B;&#x306A;&#x5927;&#x4E8B;&#x306A;&#x4E0B;&#x51E6;&#x7406;&#x3092;&#x3084;&#x3063;&#x3066;&#x3044;&#x304D;&#x307E;&#x3059;&#xFF0E;</p>
+<h2 class="mume-header" id="set%E3%83%95%E3%82%A1%E3%82%A4%E3%83%AB%E3%81%AE%E8%AA%AD%E3%81%BF%E8%BE%BC%E3%81%BF">set&#x30D5;&#x30A1;&#x30A4;&#x30EB;&#x306E;&#x8AAD;&#x307F;&#x8FBC;&#x307F;</h2>
+
+<center><img src="../figures/load-set.png" width="80%"></center>
+<center><img src="../figures/load-set2.png" width="80%"></center>
 <div style="text-align: center;">
 <p>&#x3010;<a href="./prepro1.html">&#x6B21;&#x3078;</a>&#x3011;</p>
 </div>
